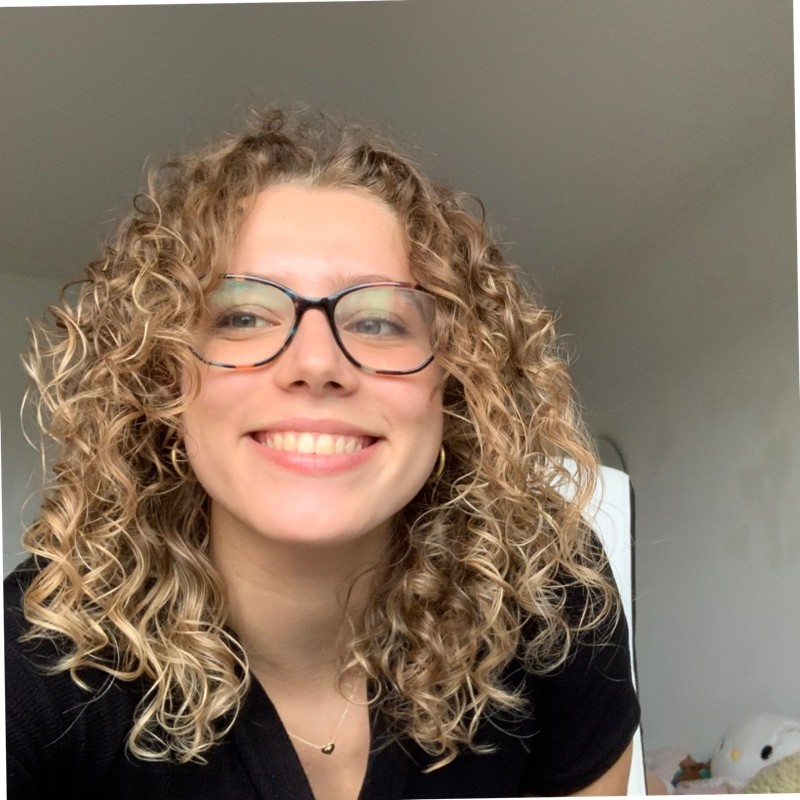
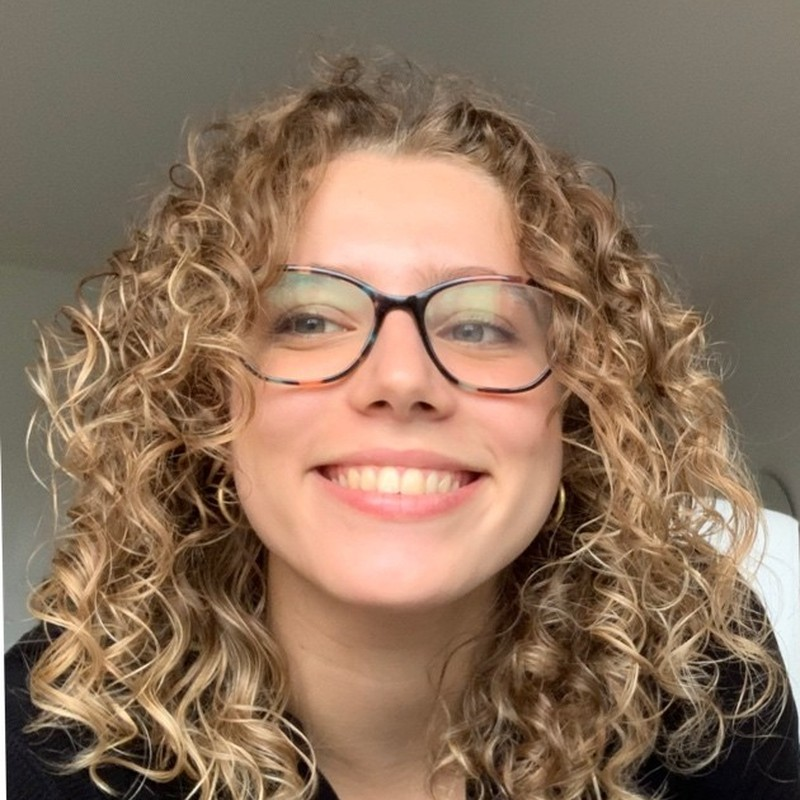
Tweaked team layout

diff --git a/src/App.css b/src/App.css
@@ -112,16 +112,14 @@ body {
 }
 
 .team-grid {
-  display: flex;
-  flex-wrap: wrap;
-  justify-content: center; 
-  gap: 3rem;
-  max-width: 1200px;
+  display: grid;
+  grid-template-columns: repeat(5, minmax(0, 1fr));
+  gap: 2rem;
+  max-width: 1100px;
   margin: 0 auto;
 }
 
 .team-member {
-  width: min(100%, 220px);
   display: flex;
   flex-direction: column;
   align-items: center;
@@ -359,6 +357,45 @@ i {
 }
 
 /* --- RESPONSIVE ADJUSTMENTS --- */
+/* Equipo: 3 por fila (rejilla de 6 columnas, cada miembro ocupa 2) y la fila
+   incompleta centrada, para que nadie quede solo a un lado. */
+@media (max-width: 1100px) {
+  .team-grid {
+    grid-template-columns: repeat(6, minmax(0, 1fr));
+    max-width: 640px;
+  }
+
+  .team-member {
+    grid-column: span 2;
+  }
+
+  .team-member:nth-last-child(2):nth-child(3n + 1) {
+    grid-column: 2 / span 2;
+  }
+
+  .team-member:last-child:nth-child(3n + 1) {
+    grid-column: 3 / span 2;
+  }
+}
+
+/* 2 por fila, el impar centrado. */
+@media (max-width: 640px) {
+  .team-grid {
+    grid-template-columns: repeat(4, minmax(0, 1fr));
+    max-width: 400px;
+  }
+
+  .team-member,
+  .team-member:nth-last-child(2):nth-child(3n + 1),
+  .team-member:last-child:nth-child(3n + 1) {
+    grid-column: span 2;
+  }
+
+  .team-member:last-child:nth-child(2n + 1) {
+    grid-column: 2 / span 2;
+  }
+}
+
 @media (max-width: 992px) {
   #objectius, #unir-se, .footer {
     padding-left: 2em !important;
@@ -367,6 +404,11 @@ i {
 }
 
 @media (max-width: 768px) {
+  #equip {
+    padding-left: 1em;
+    padding-right: 1em;
+  }
+
   /* Secciones */
   .section {
     padding-top: 100px !important;
@@ -394,10 +436,6 @@ i {
     margin-bottom: 0.8em;
   }
   
-  .team-grid {
-    gap: 2rem;
-    grid-template-columns: repeat(auto-fit, minmax(170px, 1fr));
-  }
 }
 
 @media (max-width: 480px) {
@@ -407,5 +445,10 @@ i {
 
   .team-grid {
     grid-template-columns: 1fr;
+  }
+
+  .team-member,
+  .team-member:last-child:nth-child(2n + 1) {
+    grid-column: auto;
   }
 }
